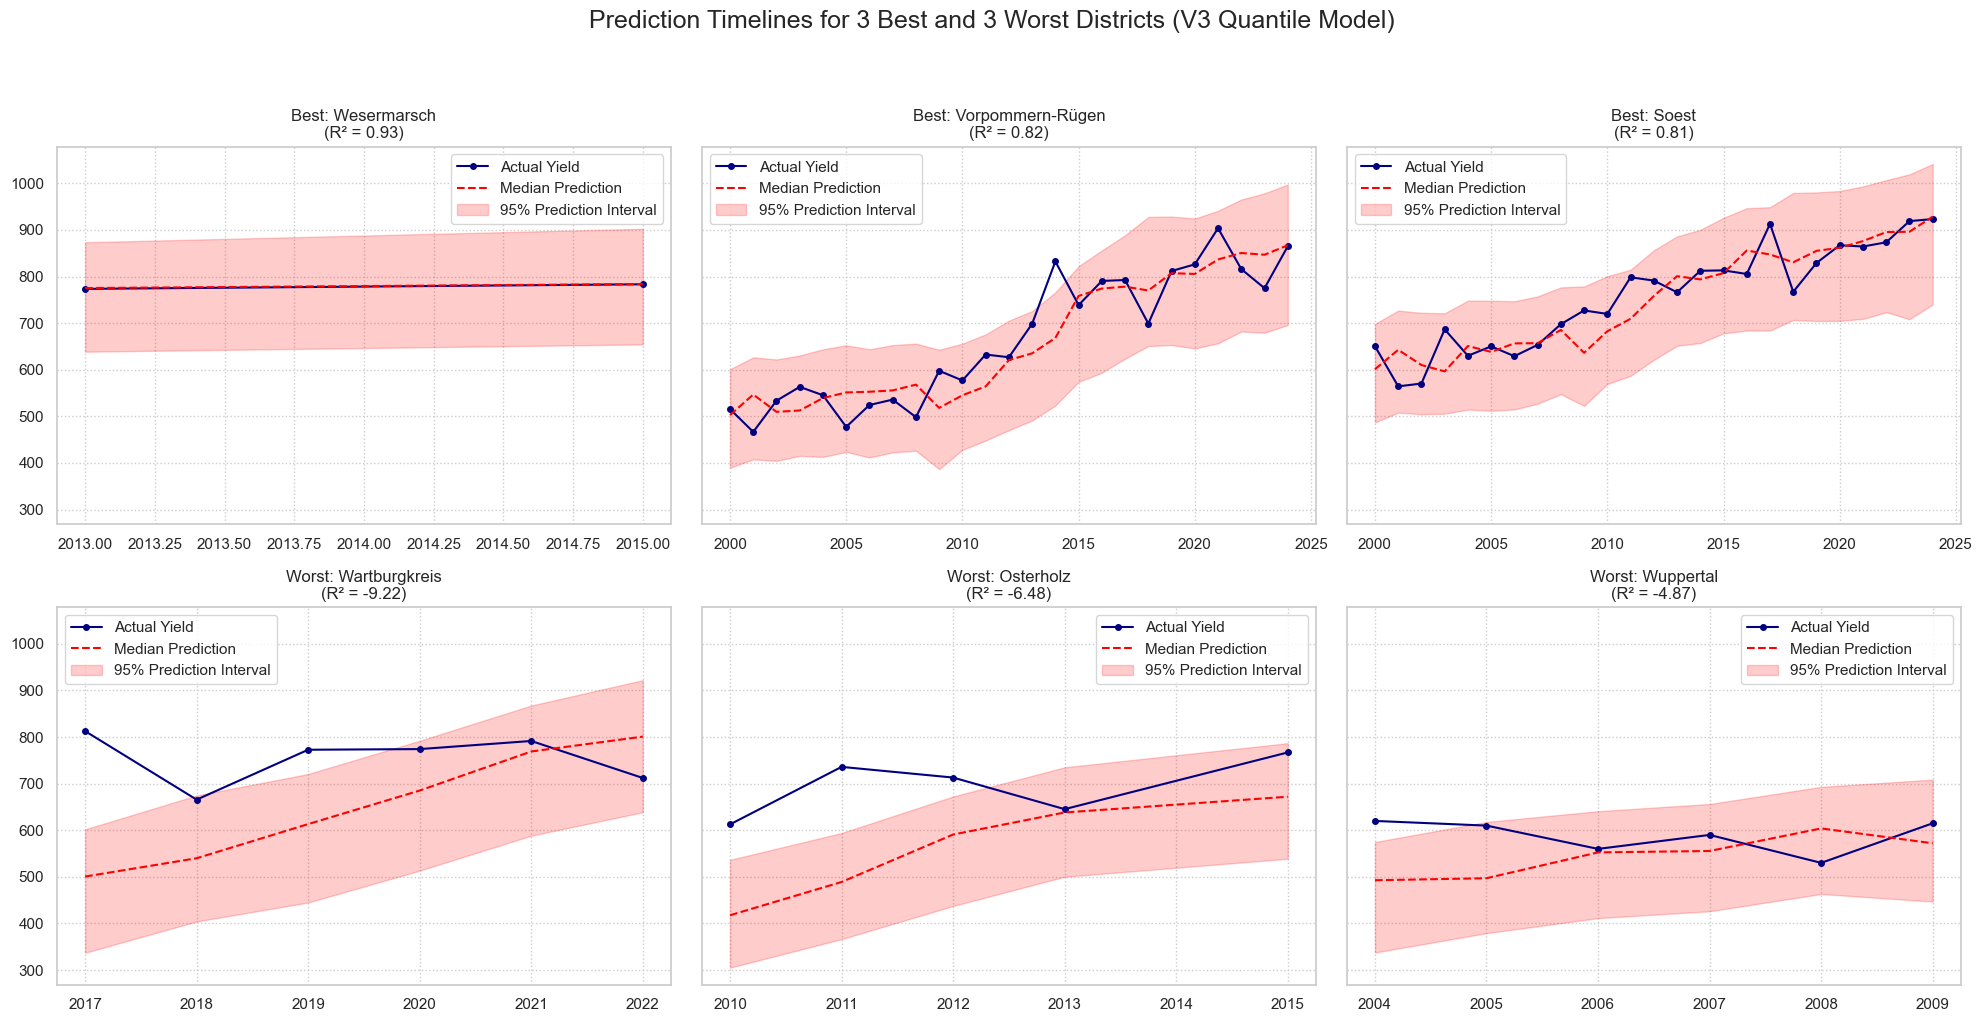
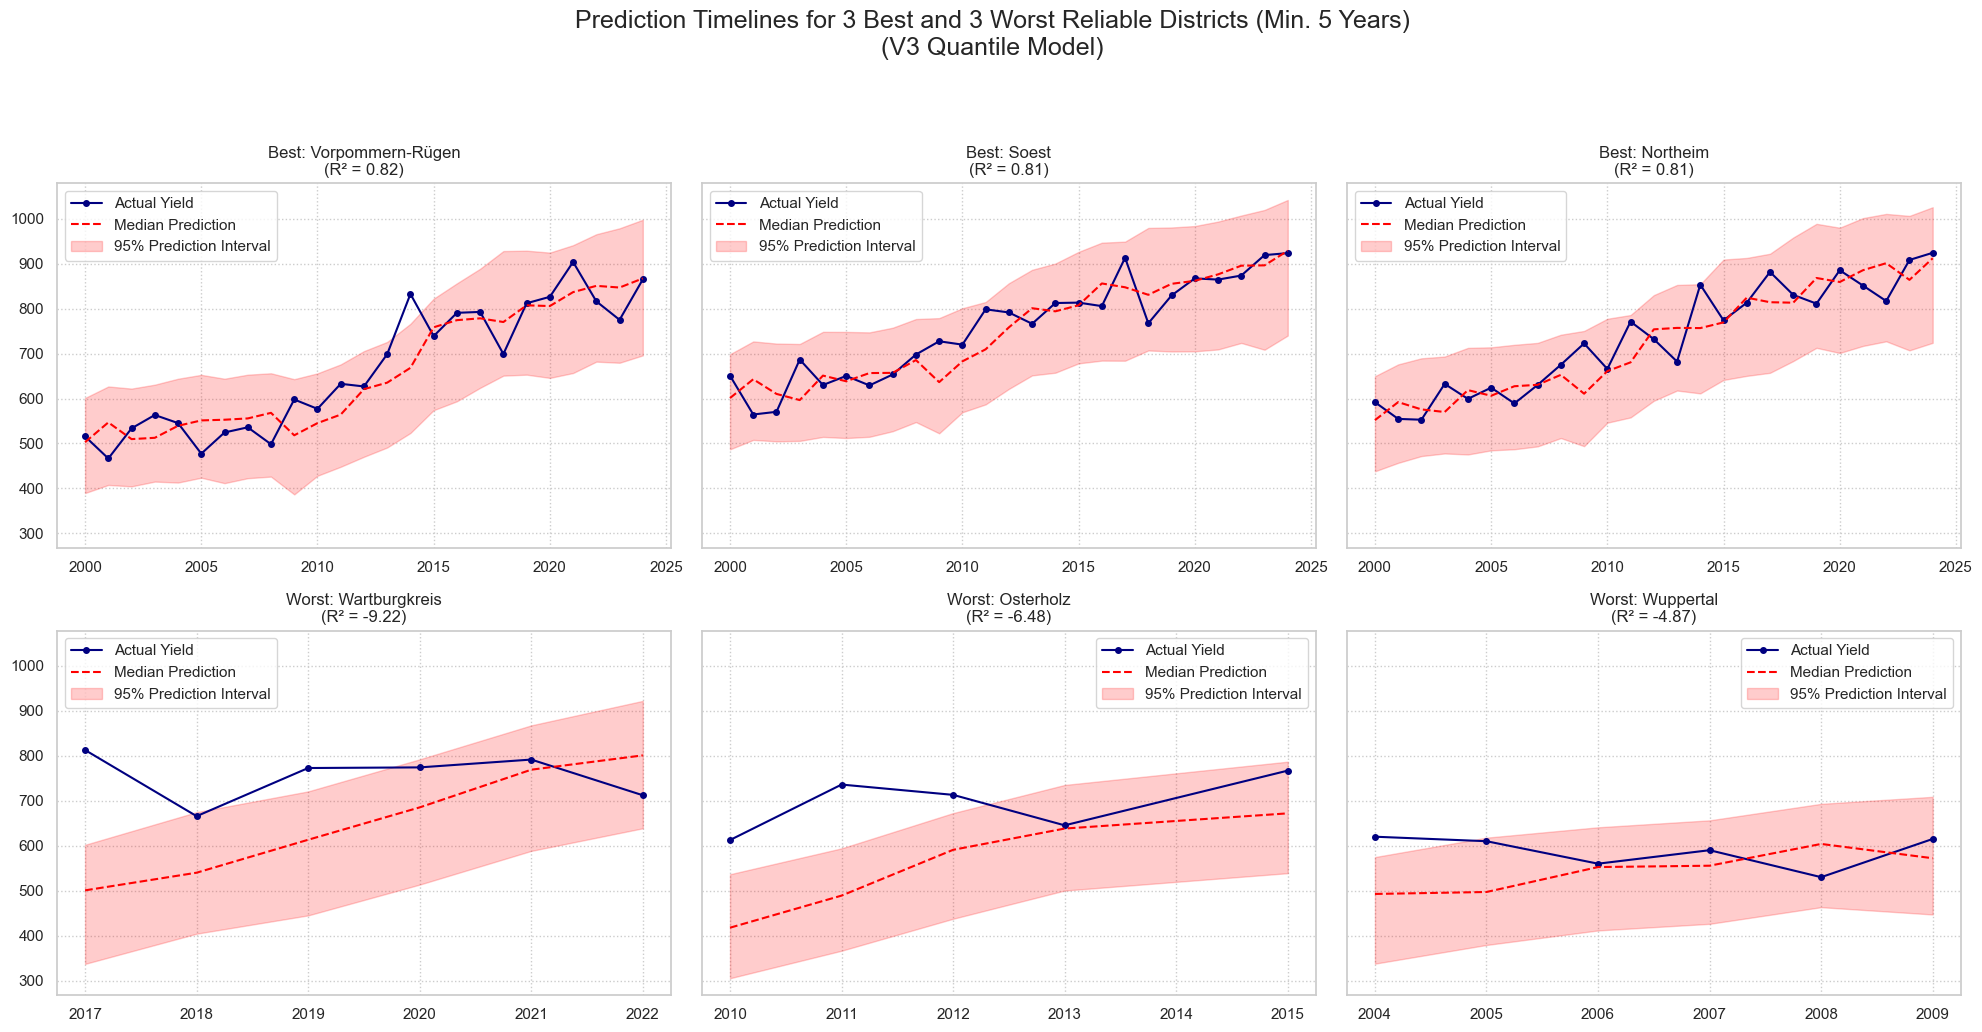
small change to better prameterize the base_quantile_model

diff --git a/src/02_models/XGBoost/regression_model/Testing/backtesting_quantile.py b/src/02_models/XGBoost/regression_model/Testing/backtesting_quantile.py
@@ -119,29 +119,61 @@ def plot_national_average_timeline(backtest_results: pd.DataFrame, report_dir: s
     print(f"National average plot saved to {save_path}")
 
 # (Other plotting functions are updated with correct labels)
-def plot_best_worst_district_timelines_with_intervals(district_performance: pd.DataFrame, backtest_results: pd.DataFrame):
+def plot_best_worst_district_timelines_with_intervals(district_performance: pd.DataFrame,
+                                                      backtest_results: pd.DataFrame):
+    """
+    Generates and saves timeline plots for the 3 best and 3 worst performing reliable districts,
+    including the 95% prediction interval.
+    """
     print("\n--- Generating timeline plots for best and worst districts with prediction intervals ---")
-    # ... (filtering logic remains the same)
-    filtered_perf = district_performance[(district_performance['data_point_count'] > 1) & (district_performance['r2'] != -99)].sort_values('r2', ascending=False)
-    best_districts = filtered_perf.head(3)
-    worst_districts_filtered = district_performance[(district_performance['data_point_count'] >= MIN_DATAPOINTS_FOR_WORST_DISTRICTS_PLOT) & (district_performance['r2'] != -99)].sort_values('r2', ascending=True)
-    worst_districts = worst_districts_filtered.head(3)
+
+    # First, create a pool of reliable districts that meet the minimum data requirement
+    reliable_perf = district_performance[
+        (district_performance['data_point_count'] >= MIN_DATAPOINTS_FOR_WORST_DISTRICTS_PLOT) &
+        (district_performance['r2'] != -99)
+        ]
+
+    # Now select the best and worst from this reliable pool
+    best_districts = reliable_perf.sort_values('r2', ascending=False).head(3)
+    worst_districts = reliable_perf.sort_values('r2', ascending=True).head(3)
+
+    # Check if there are enough districts to plot
+    if len(best_districts) < 3 or len(worst_districts) < 3:
+        print(
+            f"  Warning: Could not generate best/worst plot. Not enough reliable districts found with at least {MIN_DATAPOINTS_FOR_WORST_DISTRICTS_PLOT} data points.")
+        return
+
     districts_to_plot = pd.concat([best_districts, worst_districts])
+
     fig, axes = plt.subplots(2, 3, figsize=(20, 10), sharey=True)
     axes = axes.flatten()
+
     for i, (_, district_info) in enumerate(districts_to_plot.iterrows()):
-        district_data = backtest_results[backtest_results['district_no'] == district_info['district_no']].sort_values('year')
+        district_data = backtest_results[backtest_results['district_no'] == district_info['district_no']].sort_values(
+            'year')
         ax = axes[i]
-        ax.plot(district_data['year'], district_data['kreisYield'], label='Actual Yield', color='navy', marker='o', markersize=4, zorder=3)
-        ax.plot(district_data['year'], district_data['predicted_yield_median'], label='Median Prediction', color='red', linestyle='--', zorder=4)
+        ax.plot(district_data['year'], district_data['kreisYield'], label='Actual Yield', color='navy', marker='o',
+                markersize=4, zorder=3)
+        ax.plot(district_data['year'], district_data['predicted_yield_median'], label='Median Prediction', color='red',
+                linestyle='--', zorder=4)
         ax.fill_between(district_data['year'], district_data['predicted_yield_lower'],
-                        district_data['predicted_yield_upper'], color='red', alpha=0.2, label='95% Prediction Interval', zorder=2) # <-- MODIFIED Label
+                        district_data['predicted_yield_upper'], color='red', alpha=0.2, label='95% Prediction Interval',
+                        zorder=2)
         ax.set_title(f"{'Best' if i < 3 else 'Worst'}: {district_info['name']}\n(R² = {district_info['r2']:.2f})")
-        ax.legend(); ax.grid(True, which='both', linestyle=':')
-    plt.suptitle("Prediction Timelines for 3 Best and 3 Worst Districts (V3 Quantile Model)", fontsize=18, y=1.02)
+        ax.legend()
+        ax.grid(True, which='both', linestyle=':')
+
+    # <-- MODIFIED LINE: Added the minimum data points value to the main title -->
+    plt.suptitle(
+        f"Prediction Timelines for 3 Best and 3 Worst Reliable Districts (Min. {MIN_DATAPOINTS_FOR_WORST_DISTRICTS_PLOT} Years)\n(V3 Quantile Model)",
+        fontsize=18,
+        y=1.03  # Slightly increased y to give the two-line title space
+    )
+
     plt.tight_layout(rect=[0, 0, 1, 0.98])
     save_path = os.path.join(REPORT_DIR, '04_best_worst_district_timelines.png')
-    plt.savefig(save_path, bbox_inches='tight'); plt.close()
+    plt.savefig(save_path, bbox_inches='tight')
+    plt.close(fig)
     print(f"Best/Worst district timelines saved to {save_path}")
 
 # (The core metric/utility functions below require no changes in logic)
